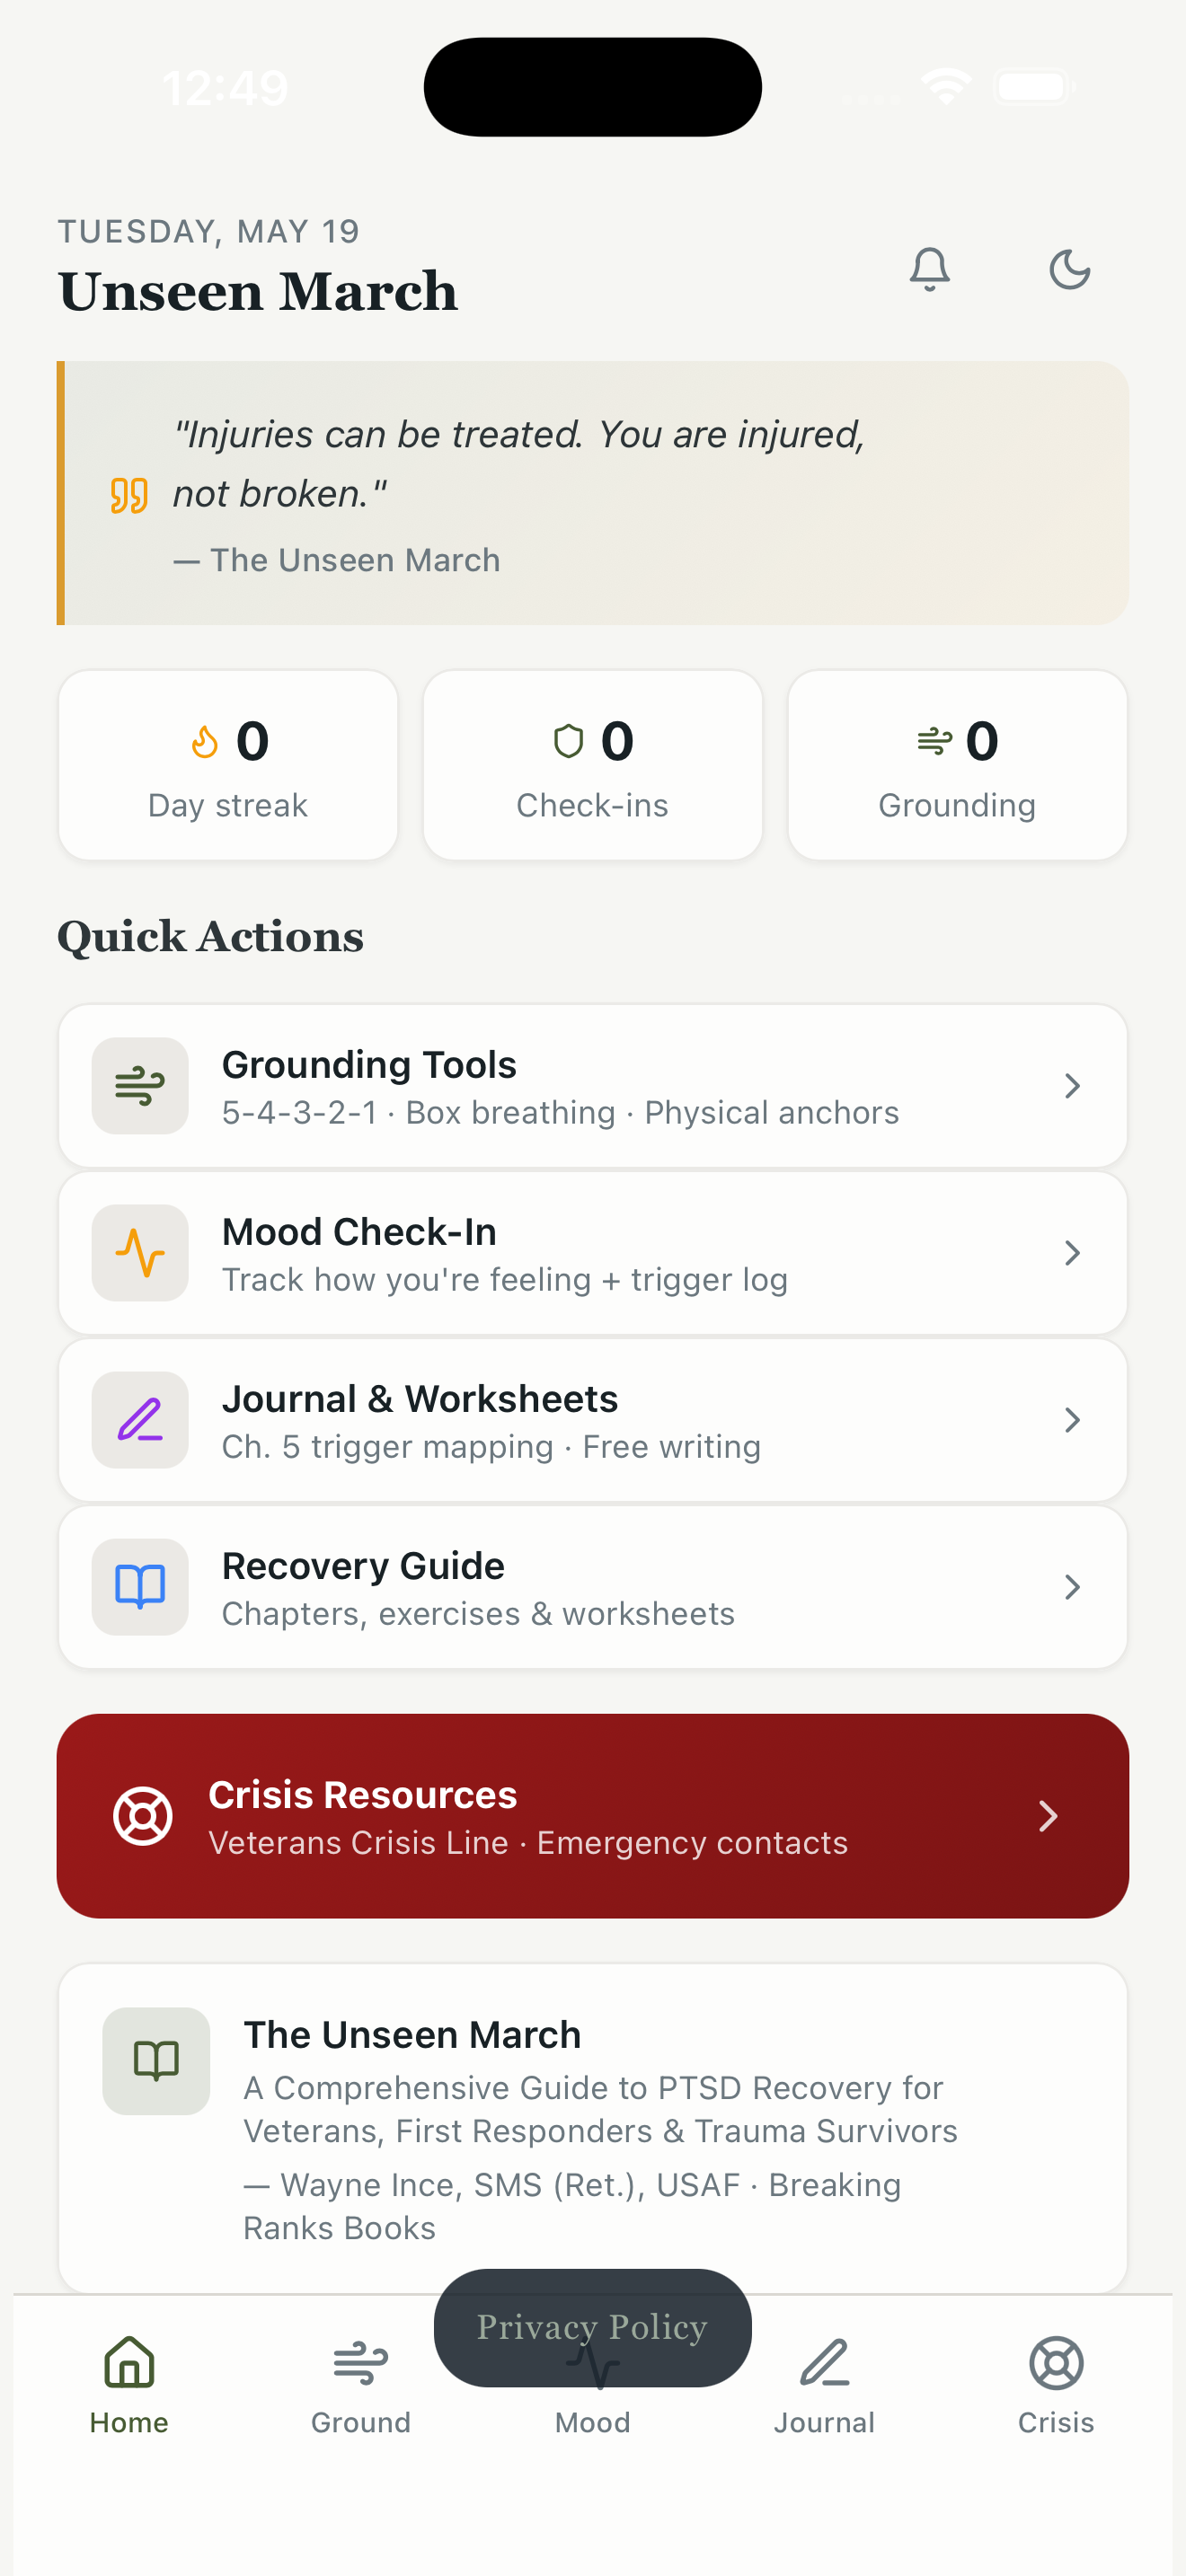
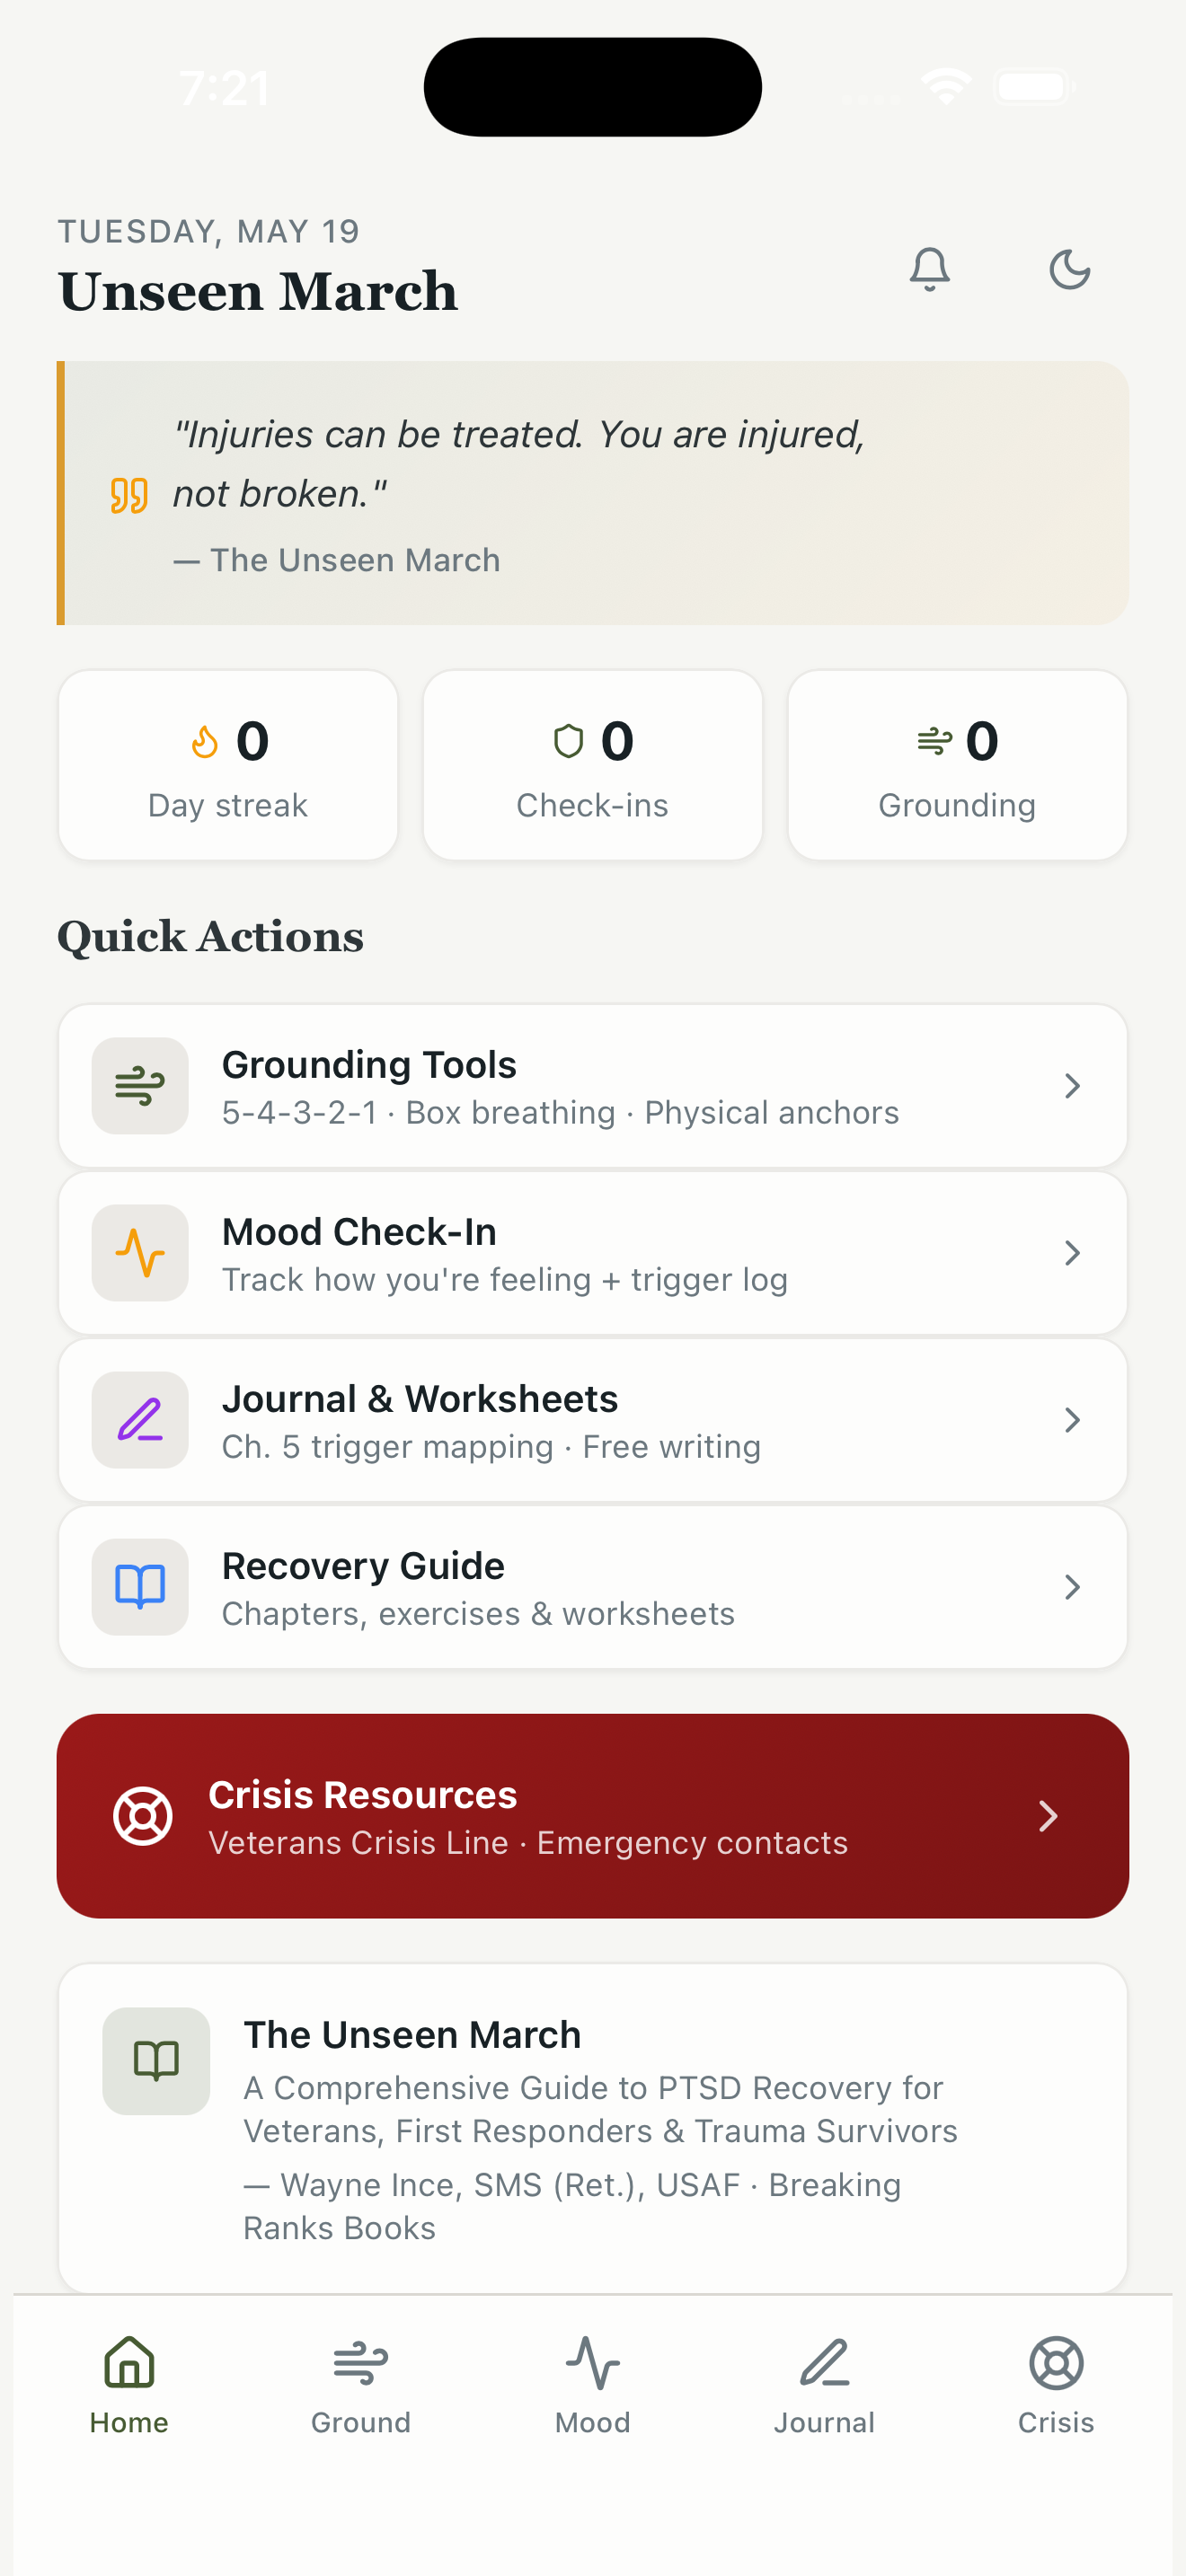
ios(phase6): full screenshot set (5 screens x 2 device classes) + LISTING_BRIEF update
10 marketing screenshots in docs/app-store/ at required App Store sizes
(1320x2868 iPhone 6.9", 2064x2752 iPad 13"), captured post-footer-fix
with the SPA hash router. LISTING_BRIEF inventory updated.

Changed region(s): [[0.3727, 0.8689, 0.6523, 0.931]]

diff --git a/docs/app-store/LISTING_BRIEF.md b/docs/app-store/LISTING_BRIEF.md
@@ -74,15 +74,20 @@ honor the audience (veterans, first responders, trauma survivors, families).
 
 ## Asset inventory (this folder: docs/app-store/)
 - `icon-1024.png` — 1024×1024, no alpha → **App Store marketing icon, ready**
-- `screen_iPhone69_01_home.png` — 1320×2868 → **6.9" iPhone (required), Home**
-- `screen_iPad13_01_home.png` — 2064×2752 → **13" iPad (required), Home**
 
-### Screenshot gap (action for Wayne / Cowork)
-Only **Home** is captured (reliable headless sim automation can't tap through
-the WebView SPA). For a strong listing, capture 3–5 key screens — **Grounding,
-Mood Check-In, Journal, Crisis Resources** — at the two required sizes. Easiest
-path now: the app is on Wayne's TestFlight device — screenshot there
-(Settings → Display: default text size), or boot iPhone 6.9" + iPad 13"
-simulators and navigate manually. Apple production templates (developer.apple
-.com/design/resources) can frame them if Wayne wants the framed treatment;
-plain device screenshots are also accepted.
+**6.9" iPhone screenshots (1320×2868, required slot):**
+- `screen_iPhone69_01_home.png` — Home (daily quote, streak counters, Quick Actions, Crisis Resources, book promo)
+- `screen_iPhone69_02_grounding.png` — Grounding Tools (5‑4‑3‑2‑1, Box Breathing, Cold Water Anchor, Progressive Muscle Relaxation)
+- `screen_iPhone69_03_mood.png` — Mood & Triggers (Check‑In + Arousal Ladder: Baseline/Yellow/Orange/Red)
+- `screen_iPhone69_04_journal.png` — Journal (Chapter 5 worksheets + free writing; references *The Unseen March*)
+- `screen_iPhone69_05_crisis.png` — Crisis Resources (Veterans Crisis Line 988, Crisis Text Line, SAMHSA, 911)
+
+**13" iPad screenshots (2064×2752, required slot):**
+- `screen_iPad13_01_home.png` … `screen_iPad13_05_crisis.png` — same five screens, iPad rendering
+
+Captured with the footer‑pill fix landed (Privacy pill correctly hidden in the
+native app). Navigation driven by the SPA's hash router (`#/grounding`,
+`#/mood`, `#/journal`, `#/crisis`) — not the manifest's `?screen=` convention.
+Apple production templates (developer.apple.com/design/resources) can frame
+these if Cowork wants the framed marketing treatment; plain device captures
+are also accepted by App Store Connect.

diff --git a/BUILD_LOG.md b/BUILD_LOG.md
@@ -160,3 +160,11 @@ HIG/RESOURCE REFERENCES: HIG — Accessibility (Dynamic Type / Text Size), Layou
 - WHAT'S NEXT: listing copy in Cowork → submit for App Store review when ready (TestFlight build 1.0.0(2) already processed & tested)
 - BLOCKERS: none
 - HIG/RESOURCE REFERENCES: Apple Design Resources — Production Templates (1024 icon, screenshot frames); App Store Connect — App Privacy, Age Rating, App Review Guideline 4.2
+
+#### Phase 6 follow-up — footer-pill fix + full screenshot set (2026-05-19)
+- **Footer-pill (Minor) RESOLVED.** Source fix on `fix/footer-pill-native-hide` (commit 2454b3c) — detects `window.Capacitor.isNativePlatform()` and adds `.app-native` to documentElement; assets/a11y.css hides `#app-footer` for that class plus `(display-mode: standalone)`. Live website unaffected. Merged to master (deploys to live site too) and cherry-picked into phase-6. Verified clean on iPhone 17 Pro Max simulator with bundle rebuilt.
+- **Full screenshot set captured.** 5 screens × 2 device classes = 10 marketing-ready PNGs in `docs/app-store/`:
+  - iPhone 6.9" (1320×2868): home, grounding, mood, journal, crisis
+  - iPad 13"  (2064×2752): home, grounding, mood, journal, crisis
+- **Technique:** Capacitor SPA uses hash routing, not the manifest's `?screen=` convention. Discovered via bundle inspection; injected `history.replaceState({},'','#/<screen>')` into the App.app's bundled `public/index.html` before the app.js module loads, then installed/launched/screenshot per device. Canonical bundle restored after capture.
+- All Phase 6 listing assets now complete and ready for Cowork to write copy against.